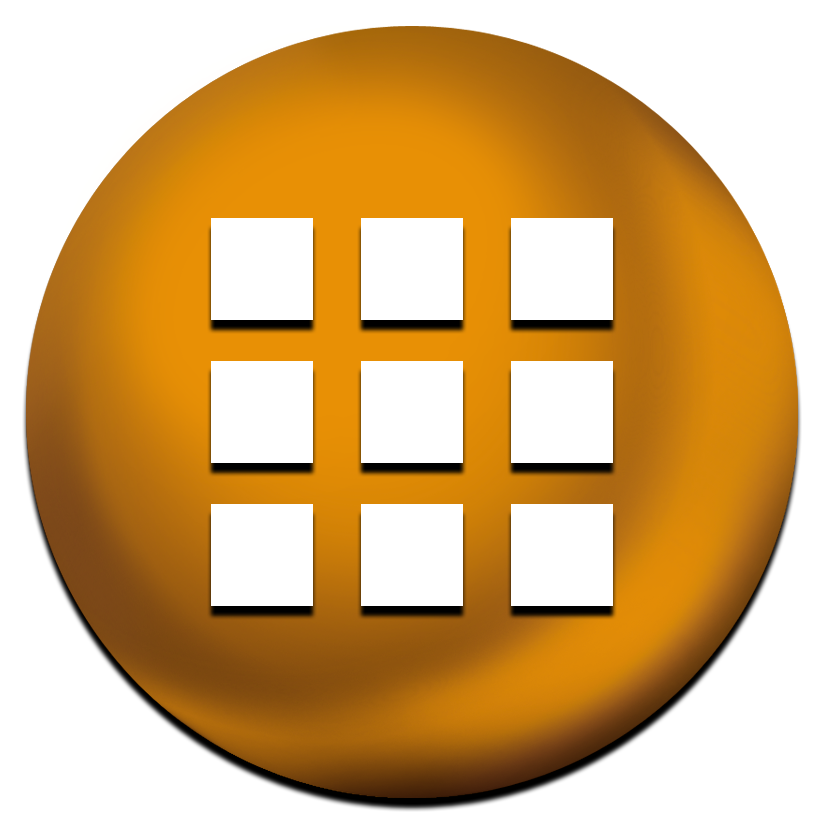
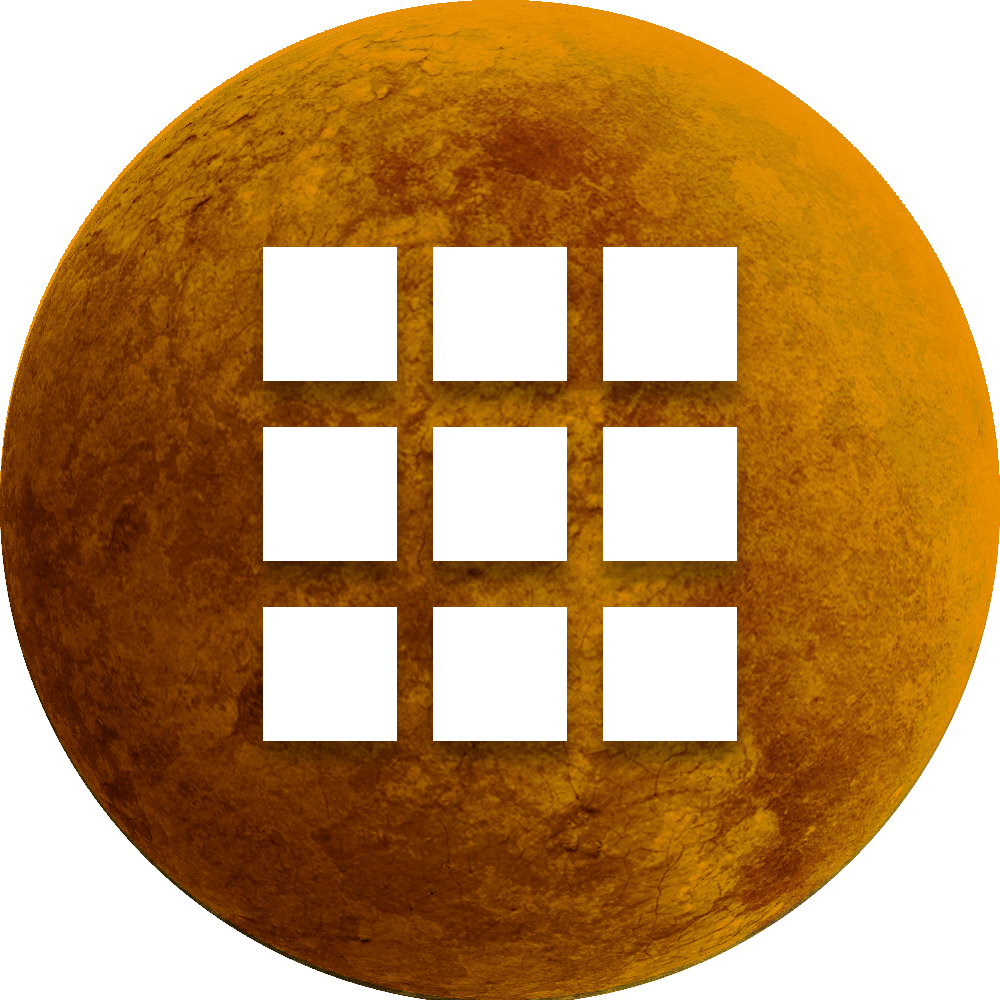
Update button assets, add checkmark behind completed scores

diff --git a/core/src/com/turkey/gravitygrid/PlayingScreen.java b/core/src/com/turkey/gravitygrid/PlayingScreen.java
@@ -76,6 +76,7 @@ public class PlayingScreen implements Screen {
     public Texture inGameMenuResetButtonImage;
     public Texture inGameMenuLevelSelectButtonImage;
     public Texture inGameMenuHelpButtonImage;
+    Texture doneCheckmarkImage;
 
     // An array of pooled effects to manage all our particle effect systems
     Array<ParticleEffectPool.PooledEffect> particleEffects = new Array();
@@ -627,14 +628,11 @@ public class PlayingScreen implements Screen {
         tileBlankImage = game.assets.get("tileBlankImage.png", Texture.class);
         //tilePlanetImage = new Texture[4]; // remember: [4] = [0,1,2,3].
         //tilePlanetRegion = new TextureRegion[4];
-        tileRedPlanetImage = new Texture(Gdx.files.internal("planet-red.png"), true);
-        tileRedPlanetImage.setFilter(Texture.TextureFilter.MipMapLinearNearest, Texture.TextureFilter.Nearest);
+        tileRedPlanetImage = game.assets.get("planet-red.png", Texture.class);
         tileRedPlanetRegion = new TextureRegion(tileRedPlanetImage);
-        tileBluePlanetImage = new Texture(Gdx.files.internal("planet-blue.png"), true);
-        tileBluePlanetImage.setFilter(Texture.TextureFilter.MipMapLinearNearest, Texture.TextureFilter.Nearest);
+        tileBluePlanetImage = game.assets.get("planet-blue.png", Texture.class);
         tileBluePlanetRegion = new TextureRegion(tileBluePlanetImage);
-        tileGreenPlanetImage = new Texture(Gdx.files.internal("planet-green.png"), true);
-        tileGreenPlanetImage.setFilter(Texture.TextureFilter.MipMapLinearNearest, Texture.TextureFilter.Nearest);
+        tileGreenPlanetImage = game.assets.get("planet-green.png", Texture.class);
         tileGreenPlanetRegion = new TextureRegion(tileGreenPlanetImage);
         tileSunImage = game.assets.get("sun.png", Texture.class);
         tileSunRegion = new TextureRegion(tileSunImage);
@@ -654,8 +652,10 @@ public class PlayingScreen implements Screen {
         tutorialOverlayImage = new Texture[3];
         tutorialOverlayImage[0] = game.assets.get("tutorials/level1TutorialOverlay.png", Texture.class);
         tutorialOverlayImage[1] = game.assets.get("tutorials/level2TutorialOverlay.png", Texture.class);
+        tutorialOverlayImage[2] = game.assets.get("tutorials/level3TutorialOverlay.png", Texture.class);
 
         //levelMessageBackgroundImage = game.assets.get("levelMessageBackground.png", Texture.class);
+        doneCheckmarkImage = game.assets.get("levelicons/done.png", Texture.class);
 
         tileValueImage = new Texture[11];
         tileValueImage[0] = game.assets.get("tile0.png", Texture.class);
@@ -714,9 +714,11 @@ public class PlayingScreen implements Screen {
         inGameMenuHelpButtonImage = game.assets.get("menu/helpButton.png", Texture.class);
         inGameMenuButtonImage = game.assets.get("menu/menuButton.png", Texture.class);
 
-        inGameMenuResetButtonRect = new Rectangle(0, this.screenHeight/2.0f, this.screenWidth/3.0f, this.screenWidth/3.0f);
-        inGameMenuLevelSelectButtonRect = new Rectangle(this.screenWidth/3.0f, this.screenHeight/2.0f, this.screenWidth/3.0f, this.screenWidth/3.0f);
-        inGameMenuHelpButtonRect = new Rectangle((this.screenWidth/3)*2, this.screenHeight/2.0f, this.screenWidth/3.0f, this.screenWidth/3.0f);
+        float buttonWidth = this.screenWidth/3.0f;
+
+        inGameMenuResetButtonRect = new Rectangle(0.66f*this.screenWidth-buttonWidth-(this.screenWidth/6.0f), this.screenHeight/2.0f, this.screenWidth/3.0f, this.screenWidth/3.0f);
+        inGameMenuLevelSelectButtonRect = new Rectangle(0.33f*this.screenWidth+(this.screenWidth/6.0f), this.screenHeight/2.0f, this.screenWidth/3.0f, this.screenWidth/3.0f);
+        //inGameMenuHelpButtonRect = new Rectangle((this.screenWidth/3)*2, this.screenHeight/2.0f, this.screenWidth/3.0f, this.screenWidth/3.0f);
 
 
         // Call this once before the level starts so that we have some initial values
@@ -864,10 +866,7 @@ public class PlayingScreen implements Screen {
                         game.setScreen(new LevelSelectScreen(game));
                     }
 
-                    // Did we tap help button?
-                    if (pointInRectangle(inGameMenuHelpButtonRect, finger.x, finger.y)) {
-                        // TODO: Add a help screen
-                    }
+
                 }
             }
 
@@ -1054,6 +1053,29 @@ public class PlayingScreen implements Screen {
                                     // Add our new particle system to the particleeffects array
                                     particleEffects.add(effect);
 
+                                    // Add a burst if we completed one planet color gravity goal
+                                    // Removing this because I don't like having a burst on scores we didn't complete, and I
+                                    // don't want to spend the time writing a system to do it correctly.
+                                    /*if(	thisLevelRedNeeded == thisLevelCurrentRedTotal ||
+                                            thisLevelBlueNeeded == thisLevelCurrentBlueTotal ||
+                                            thisLevelGreenNeeded == thisLevelCurrentGreenTotal) {
+                                        float checkmarkLeft = (Gdx.graphics.getWidth()/2) - Gdx.graphics.getWidth()/4;
+                                        float checkmarkMiddle = Gdx.graphics.getWidth()/2;
+                                        float checkmarkRight = (Gdx.graphics.getWidth()/2) + Gdx.graphics.getWidth()/4;
+                                        float burstY = this.screenHeight - (4*game.fontSize);
+
+                                        ParticleEffectPool.PooledEffect burstLeft = goodMoveStarburstPool.obtain();
+                                        burstLeft.setPosition(checkmarkLeft, burstY);
+                                        particleEffects.add(burstLeft);
+
+                                        ParticleEffectPool.PooledEffect burstMiddle = goodMoveStarburstPool.obtain();
+                                        burstMiddle.setPosition(checkmarkMiddle, burstY);
+                                        particleEffects.add(burstMiddle);
+
+                                        ParticleEffectPool.PooledEffect burstRight = goodMoveStarburstPool.obtain();
+                                        burstRight.setPosition(checkmarkRight, burstY);
+                                        particleEffects.add(burstRight);
+                                    }*/
 
                                     if(	thisLevelRedNeeded == thisLevelCurrentRedTotal &&
                                             thisLevelBlueNeeded == thisLevelCurrentBlueTotal &&
@@ -1245,7 +1267,10 @@ public class PlayingScreen implements Screen {
         // (19-Nov-2016 Jesse) Only display the color score if we have that planet type on this level
         float middleScoreStripX = 0; // center
         float leftScoreStripX = 0-(Gdx.graphics.getWidth()/4); // use 1/4 distance
-        float rightScoreStripX = (Gdx.graphics.getWidth()/4);
+        float rightScoreStripX = Gdx.graphics.getWidth()/4;
+        float checkmarkLeft = (Gdx.graphics.getWidth()/2) - Gdx.graphics.getWidth()/4;
+        float checkmarkMiddle = Gdx.graphics.getWidth()/2;
+        float checkmarkRight = (Gdx.graphics.getWidth()/2) + Gdx.graphics.getWidth()/4;
 
         game.pixelFont.setColor(game.colorOrange);
         game.pixelFont.draw(game.batch, "GRAVITY GRID", 0, screenHeight, Gdx.graphics.getWidth(), 1, false);
@@ -1266,12 +1291,23 @@ public class PlayingScreen implements Screen {
         if(thisLevelBlueNeeded > 0) { haveBlue = true; count++;}
         if(thisLevelGreenNeeded > 0) { haveGreen = true; count++;}
 
+        boolean redsAreDone = (thisLevelCurrentRedTotal == thisLevelRedNeeded && thisLevelRedNeeded != 0 ? true : false);
+        boolean bluesAreDone = (thisLevelCurrentBlueTotal == thisLevelBlueNeeded && thisLevelBlueNeeded != 0 ? true : false);
+        boolean greensAreDone = (thisLevelCurrentGreenTotal == thisLevelGreenNeeded && thisLevelGreenNeeded != 0 ? true : false);
+
+
         // Next, since count can only be 1,2,or 3, figure out what pattern we have and display the counters appropriately
         switch(count) {
             case 1:
+                // Draw checkmark on center numbers regardless of which planet type they're for (since we'll draw the checkmark in the same spot
+                if(redsAreDone || bluesAreDone || greensAreDone) {
+                    game.batch.setColor(game.colorOrange);
+                    game.batch.draw(doneCheckmarkImage, checkmarkMiddle-80, screenHeight - (4*this.game.fontSize)-80, 160,160);
+                }
                 if (haveRed) {
-                    game.pixelFont.setColor(game.colorRed);
+                    game.pixelFont.setColor( game.colorRed );
                     game.pixelFont.draw(game.batch, "" + thisLevelCurrentRedTotal + "/" + thisLevelRedNeeded + "", middleScoreStripX, screenHeight - (4 * this.game.fontSize), this.screenWidth - 10, 1, false);
+
                 }
                 if (haveBlue) {
                     game.pixelFont.setColor(game.colorBlue);
@@ -1281,42 +1317,90 @@ public class PlayingScreen implements Screen {
                     game.pixelFont.setColor(game.colorGreen);
                     game.pixelFont.draw(game.batch, "" + thisLevelCurrentGreenTotal + "/" + thisLevelGreenNeeded + "", middleScoreStripX, screenHeight - (4 * this.game.fontSize), this.screenWidth - 10, 1, false);
                 }
+
+
+
                 break;
 
             case 2:
                 if (haveRed && haveBlue) {
+                    if(redsAreDone) {
+                        game.batch.setColor(game.colorOrange);
+                        game.batch.draw(doneCheckmarkImage, checkmarkLeft-80, screenHeight - (4*this.game.fontSize)-80, 160,160);
+                    }
+
+                    if(bluesAreDone) {
+                        game.batch.setColor(game.colorOrange);
+                        game.batch.draw(doneCheckmarkImage, checkmarkRight-80, screenHeight - (4*this.game.fontSize)-80, 160,160);
+                    }
                     game.pixelFont.setColor(game.colorRed);
                     game.pixelFont.draw(game.batch, "" + thisLevelCurrentRedTotal + "/" + thisLevelRedNeeded + "", leftScoreStripX, screenHeight - (4 * this.game.fontSize), this.screenWidth - 10, 1, false);
                     game.pixelFont.setColor(game.colorBlue);
                     game.pixelFont.draw(game.batch, "" + thisLevelCurrentBlueTotal + "/" + thisLevelBlueNeeded + "", rightScoreStripX, screenHeight - (4 * this.game.fontSize), this.screenWidth - 10, 1, false);
+
+
                 }
                 if (haveBlue && haveGreen) {
+                    if(bluesAreDone) {
+                        game.batch.setColor(game.colorOrange);
+                        game.batch.draw(doneCheckmarkImage, checkmarkLeft-80, screenHeight - (4*this.game.fontSize)-80, 160,160);
+                    }
+
+                    if(greensAreDone) {
+                        game.batch.setColor(game.colorOrange);
+                        game.batch.draw(doneCheckmarkImage, checkmarkRight-80, screenHeight - (4*this.game.fontSize)-80, 160,160);
+                    }
                     game.pixelFont.setColor(game.colorBlue);
                     game.pixelFont.draw(game.batch, "" + thisLevelCurrentBlueTotal + "/" + thisLevelBlueNeeded + "", leftScoreStripX, screenHeight - (4 * this.game.fontSize), this.screenWidth - 10, 1, false);
                     game.pixelFont.setColor(game.colorGreen);
                     game.pixelFont.draw(game.batch, "" + thisLevelCurrentGreenTotal + "/" + thisLevelGreenNeeded + "", rightScoreStripX, screenHeight - (4 * this.game.fontSize), this.screenWidth - 10, 1, false);
+
                 }
                 if (haveRed && haveGreen) {
+                    if(redsAreDone) {
+                        game.batch.setColor(game.colorOrange);
+                        game.batch.draw(doneCheckmarkImage, checkmarkLeft-80, screenHeight - (4*this.game.fontSize)-80, 160,160);
+                    }
+
+                    if(greensAreDone) {
+                        game.batch.setColor(game.colorOrange);
+                        game.batch.draw(doneCheckmarkImage, checkmarkRight-80, screenHeight - (4*this.game.fontSize)-80, 160,160);
+                    }
+
                     game.pixelFont.setColor(game.colorRed);
                     game.pixelFont.draw(game.batch, "" + thisLevelCurrentRedTotal + "/" + thisLevelRedNeeded + "", leftScoreStripX, screenHeight - (4 * this.game.fontSize), this.screenWidth - 10, 1, false);
                     game.pixelFont.setColor(game.colorGreen);
                     game.pixelFont.draw(game.batch, "" + thisLevelCurrentGreenTotal + "/" + thisLevelGreenNeeded + "", rightScoreStripX, screenHeight - (4 * this.game.fontSize), this.screenWidth - 10, 1, false);
+
                 }
                 break;
             case 3:
+
+                if(redsAreDone) {
+                    game.batch.setColor(game.colorOrange);
+                    game.batch.draw(doneCheckmarkImage, checkmarkLeft-80, screenHeight - (4*this.game.fontSize)-80, 160,160);
+                }
+
+                if(bluesAreDone) {
+                    game.batch.setColor(game.colorOrange);
+                    game.batch.draw(doneCheckmarkImage, checkmarkMiddle-80, screenHeight - (4*this.game.fontSize)-80, 160,160);
+                }
+
+                if(redsAreDone) {
+                    game.batch.setColor(game.colorOrange);
+                    game.batch.draw(doneCheckmarkImage, checkmarkRight-80, screenHeight - (4*this.game.fontSize)-80, 160,160);
+                }
                 game.pixelFont.setColor(game.colorRed);
                 game.pixelFont.draw(game.batch, "" + thisLevelCurrentRedTotal + "/" + thisLevelRedNeeded + "", leftScoreStripX, screenHeight - (4 * this.game.fontSize), this.screenWidth - 10, 1, false);
                 game.pixelFont.setColor(game.colorBlue);
                 game.pixelFont.draw(game.batch, "" + thisLevelCurrentBlueTotal + "/" + thisLevelBlueNeeded + "", middleScoreStripX, screenHeight - (4 * this.game.fontSize), this.screenWidth - 10, 1, false);
                 game.pixelFont.setColor(game.colorGreen);
                 game.pixelFont.draw(game.batch, "" + thisLevelCurrentGreenTotal + "/" + thisLevelGreenNeeded + "", rightScoreStripX, screenHeight - (4 * this.game.fontSize), this.screenWidth - 10, 1, false);
+
                 break;
             default:
                 break;
         }
-
-
-
 
                 // Draw the menu button
         game.batch.setColor(1.0f, 1.0f, 1.0f, 1.0f);
@@ -1402,7 +1486,6 @@ public class PlayingScreen implements Screen {
         }
 
         if(theGameState == gameState.IN_GAME_MENU) {
-            game.batch.setColor(1.0f,1.0f,1.0f,1.0f);
 
             // Draw the background
             game.batch.setColor(1.0f,1.0f,1.0f,0.5f);
@@ -1412,7 +1495,7 @@ public class PlayingScreen implements Screen {
 
             game.batch.draw(inGameMenuResetButtonImage, inGameMenuResetButtonRect.x, inGameMenuResetButtonRect.y, inGameMenuResetButtonRect.width, inGameMenuResetButtonRect.height);
             game.batch.draw(inGameMenuLevelSelectButtonImage, inGameMenuLevelSelectButtonRect.x, inGameMenuLevelSelectButtonRect.y, inGameMenuLevelSelectButtonRect.width, inGameMenuLevelSelectButtonRect.height);
-            game.batch.draw(inGameMenuHelpButtonImage, inGameMenuHelpButtonRect.x, inGameMenuHelpButtonRect.y, inGameMenuHelpButtonRect.width, inGameMenuHelpButtonRect.height);
+            //game.batch.draw(inGameMenuHelpButtonImage, inGameMenuHelpButtonRect.x, inGameMenuHelpButtonRect.y, inGameMenuHelpButtonRect.width, inGameMenuHelpButtonRect.height);
 
             game.batch.draw(inGameMenuCancelButtonImage, inGameMenuButtonRect.x, inGameMenuButtonRect.y, inGameMenuButtonRect.width, inGameMenuButtonRect.height);
         }

diff --git a/core/src/com/turkey/gravitygrid/GravityGrid.java b/core/src/com/turkey/gravitygrid/GravityGrid.java
@@ -534,9 +534,9 @@ public class GravityGrid extends Game {
 		gravityGridLevel[0] = myCustomLevel[0];
 		levelMessage[0] = "";
 		gravityGridLevel[1] = myCustomLevel[1];
-		levelMessage[1] = "Remember: Red planets can only be moved to a tile that is diagonal to another red planet.";
+		levelMessage[1] = "";
 		gravityGridLevel[2] = new int[] {0,0,0,0,0,0,0,0,0,1,0,0,0,0,0,0,0,0,0,0,0,0,0,0,0,0,0,0,0,0,0,0,0,0,0,0,0,0,1,0,0,0,0,0,1,0,0,0,0,9,0,0,1};
-		levelMessage[2] = "";
+		levelMessage[2] = "Remember: Red planets can only be moved to a tile that is diagonal to another red planet.";
 		gravityGridLevel[3] = new int[] {0,0,0,0,0,0,0,0,1,0,0,0,0,0,0,0,1,0,0,0,0,0,0,0,0,0,0,0,0,0,0,0,0,0,0,0,0,0,0,0,0,0,0,0,0,0,0,0,0,16,0,0,1};
 		levelMessage[3] = "Fantastic! Now I suppose it's time to tell you why you're here: In 500 years, the universe will collapse.";
 		gravityGridLevel[4] = new int[] {0,1,0,0,0,0,0,0,0,1,0,0,0,0,0,0,1,0,0,0,0,0,0,0,1,0,0,0,0,0,0,0,0,0,0,0,0,0,0,0,0,0,0,0,0,0,0,0,0,19,0,0,1};
@@ -544,7 +544,7 @@ public class GravityGrid extends Game {
 		gravityGridLevel[5] = new int[] {0,0,0,0,0,0,0,0,0,0,0,0,0,0,0,0,0,0,0,0,0,0,0,0,1,0,0,1,0,0,0,1,0,1,0,0,0,0,0,0,0,0,0,0,0,0,0,1,0,24,0,0,1};
 		levelMessage[5] = "Time travellers from the future have given you the Gravity Grid device to realign planetary systems.";
 		gravityGridLevel[6] = myCustomLevel[3];
-		levelMessage[6] = "Your missions is to realign all the planets in each system's Gravity Grid. Do this, and you will save the universe!";
+		levelMessage[6] = "Your mission is to realign all the planets in each system's Gravity Grid. Do this, and you will save the universe!";
 		gravityGridLevel[7] = myCustomLevel[4]; // First blue
 		levelMessage[7] = "Blue planets can only be moved to the top, bottom, left, or right of other blue planets.";
 		gravityGridLevel[8] = myCustomLevel[5];
@@ -561,8 +561,8 @@ public class GravityGrid extends Game {
 		levelMessage[13] = "Sometimes you need to move planets of one color out of the way to make room for planets of a different color.";
 		gravityGridLevel[14] = myCustomLevel[8];
 		levelMessage[13] = "Sometimes it seems like you need to make room for different color planets, but there might also be a different solution.";
-		gravityGridLevel[14] = new int[] {0,0,0,0,1,0,2,0,2,0,0,1,0,0,0,0,0,0,0,0,0,0,0,2,0,0,0,0,0,0,2,0,0,0,0,0,0,0,1,0,0,0,0,0,0,0,1,0,0,11,16,0,2};
-		levelMessage[14] = "Here, try to get the red AND blue scores aligned in only two moves. Can you do it?";
+		gravityGridLevel[14] = new int[] {0,0,0,0,1,2,0,0,2,0,0,1,0,0,0,0,0,0,0,0,0,0,0,2,0,0,0,0,0,0,2,0,0,0,0,0,0,0,1,0,0,0,0,0,0,0,1,0,0,11,16,0,3};
+		levelMessage[14] = "Here, try to get the red AND blue scores aligned in only three moves. Can you do it?";
 		gravityGridLevel[15] = new int[] {2,0,0,2,0,0,0,0,0,0,0,0,0,0,0,0,0,0,0,0,0,0,2,2,0,0,1,0,0,0,0,0,0,0,0,1,0,0,0,1,0,0,0,0,0,0,0,1,0,12,18,0,2};
 		levelMessage[15] = "Remember that everything in our universe is connected. Could there be multiple ways to solve this problem?";
 		gravityGridLevel[16] = myCustomLevel[9];

diff --git a/core/src/com/turkey/gravitygrid/MainMenuScreen.java b/core/src/com/turkey/gravitygrid/MainMenuScreen.java
@@ -39,6 +39,7 @@ public class MainMenuScreen implements Screen {
 	Texture buttonContinue;
 	TextureRegion buttonContinueRegion;
 	Rectangle buttonContinueRect;
+	Texture doItNowImage;
 
 	int mainMenuState; 
 	
@@ -59,10 +60,11 @@ public class MainMenuScreen implements Screen {
 		buttonNewGameRegion = new TextureRegion(buttonNewGame);
 		buttonContinue = game.assets.get("button/continue.png", Texture.class);
 		buttonContinueRegion = new TextureRegion(buttonContinue);
+		doItNowImage = game.assets.get("doitnow.png", Texture.class);
 
 		buttonNewGameRect = new Rectangle((Gdx.graphics.getWidth()/4)-200, (Gdx.graphics.getHeight()/3)-200, 400, 400);
 
-		buttonContinueRect = new Rectangle((Gdx.graphics.getWidth()/2)+(Gdx.graphics.getWidth()/4)-200, (Gdx.graphics.getHeight()/3)-200, 400, 400);
+		buttonContinueRect = new Rectangle((Gdx.graphics.getWidth()/2)-200, (Gdx.graphics.getHeight()/3)-200, 400, 400);
 
 	}
 
@@ -92,7 +94,9 @@ public class MainMenuScreen implements Screen {
 
 			game.batch.draw(buttonContinueRegion, buttonContinueRect.x, buttonContinueRect.y, buttonContinueRect.width/2, buttonContinueRect.height/2, buttonContinueRect.width, buttonContinueRect.height, 1.0f, 1.0f, 0.0f);
 
-			game.batch.draw(buttonNewGameRegion, buttonNewGameRect.x, buttonNewGameRect.y, buttonNewGameRect.width/2, buttonNewGameRect.height/2, buttonNewGameRect.width, buttonNewGameRect.height, 1.0f, 1.0f, 0.0f);
+			game.batch.draw(doItNowImage, 0, 10, this.screenWidth, 285.0f);
+
+			//game.batch.draw(buttonNewGameRegion, buttonNewGameRect.x, buttonNewGameRect.y, buttonNewGameRect.width/2, buttonNewGameRect.height/2, buttonNewGameRect.width, buttonNewGameRect.height, 1.0f, 1.0f, 0.0f);
 				
 			game.batch.end();
 				

diff --git a/core/src/com/turkey/gravitygrid/InitialLoadingScreen.java b/core/src/com/turkey/gravitygrid/InitialLoadingScreen.java
@@ -130,6 +130,7 @@ public class InitialLoadingScreen implements Screen {
         // Tutorial Overlays
         this.game.assets.load("tutorials/level1TutorialOverlay.png", Texture.class);
         this.game.assets.load("tutorials/level2TutorialOverlay.png", Texture.class);
+        this.game.assets.load("tutorials/level3TutorialOverlay.png", Texture.class);
 
 
         // Buttons
@@ -156,6 +157,7 @@ public class InitialLoadingScreen implements Screen {
         game.assets.load("menu/helpButton.png", Texture.class);
         game.assets.load("menu/resetButton.png", Texture.class);
         game.assets.load("menu/menuButton.png", Texture.class);
+        game.assets.load("doitnow.png", Texture.class);
 
         // Assets for help screen
         //game.assets.load("menu/helpScreen0.png", Texture.class);
